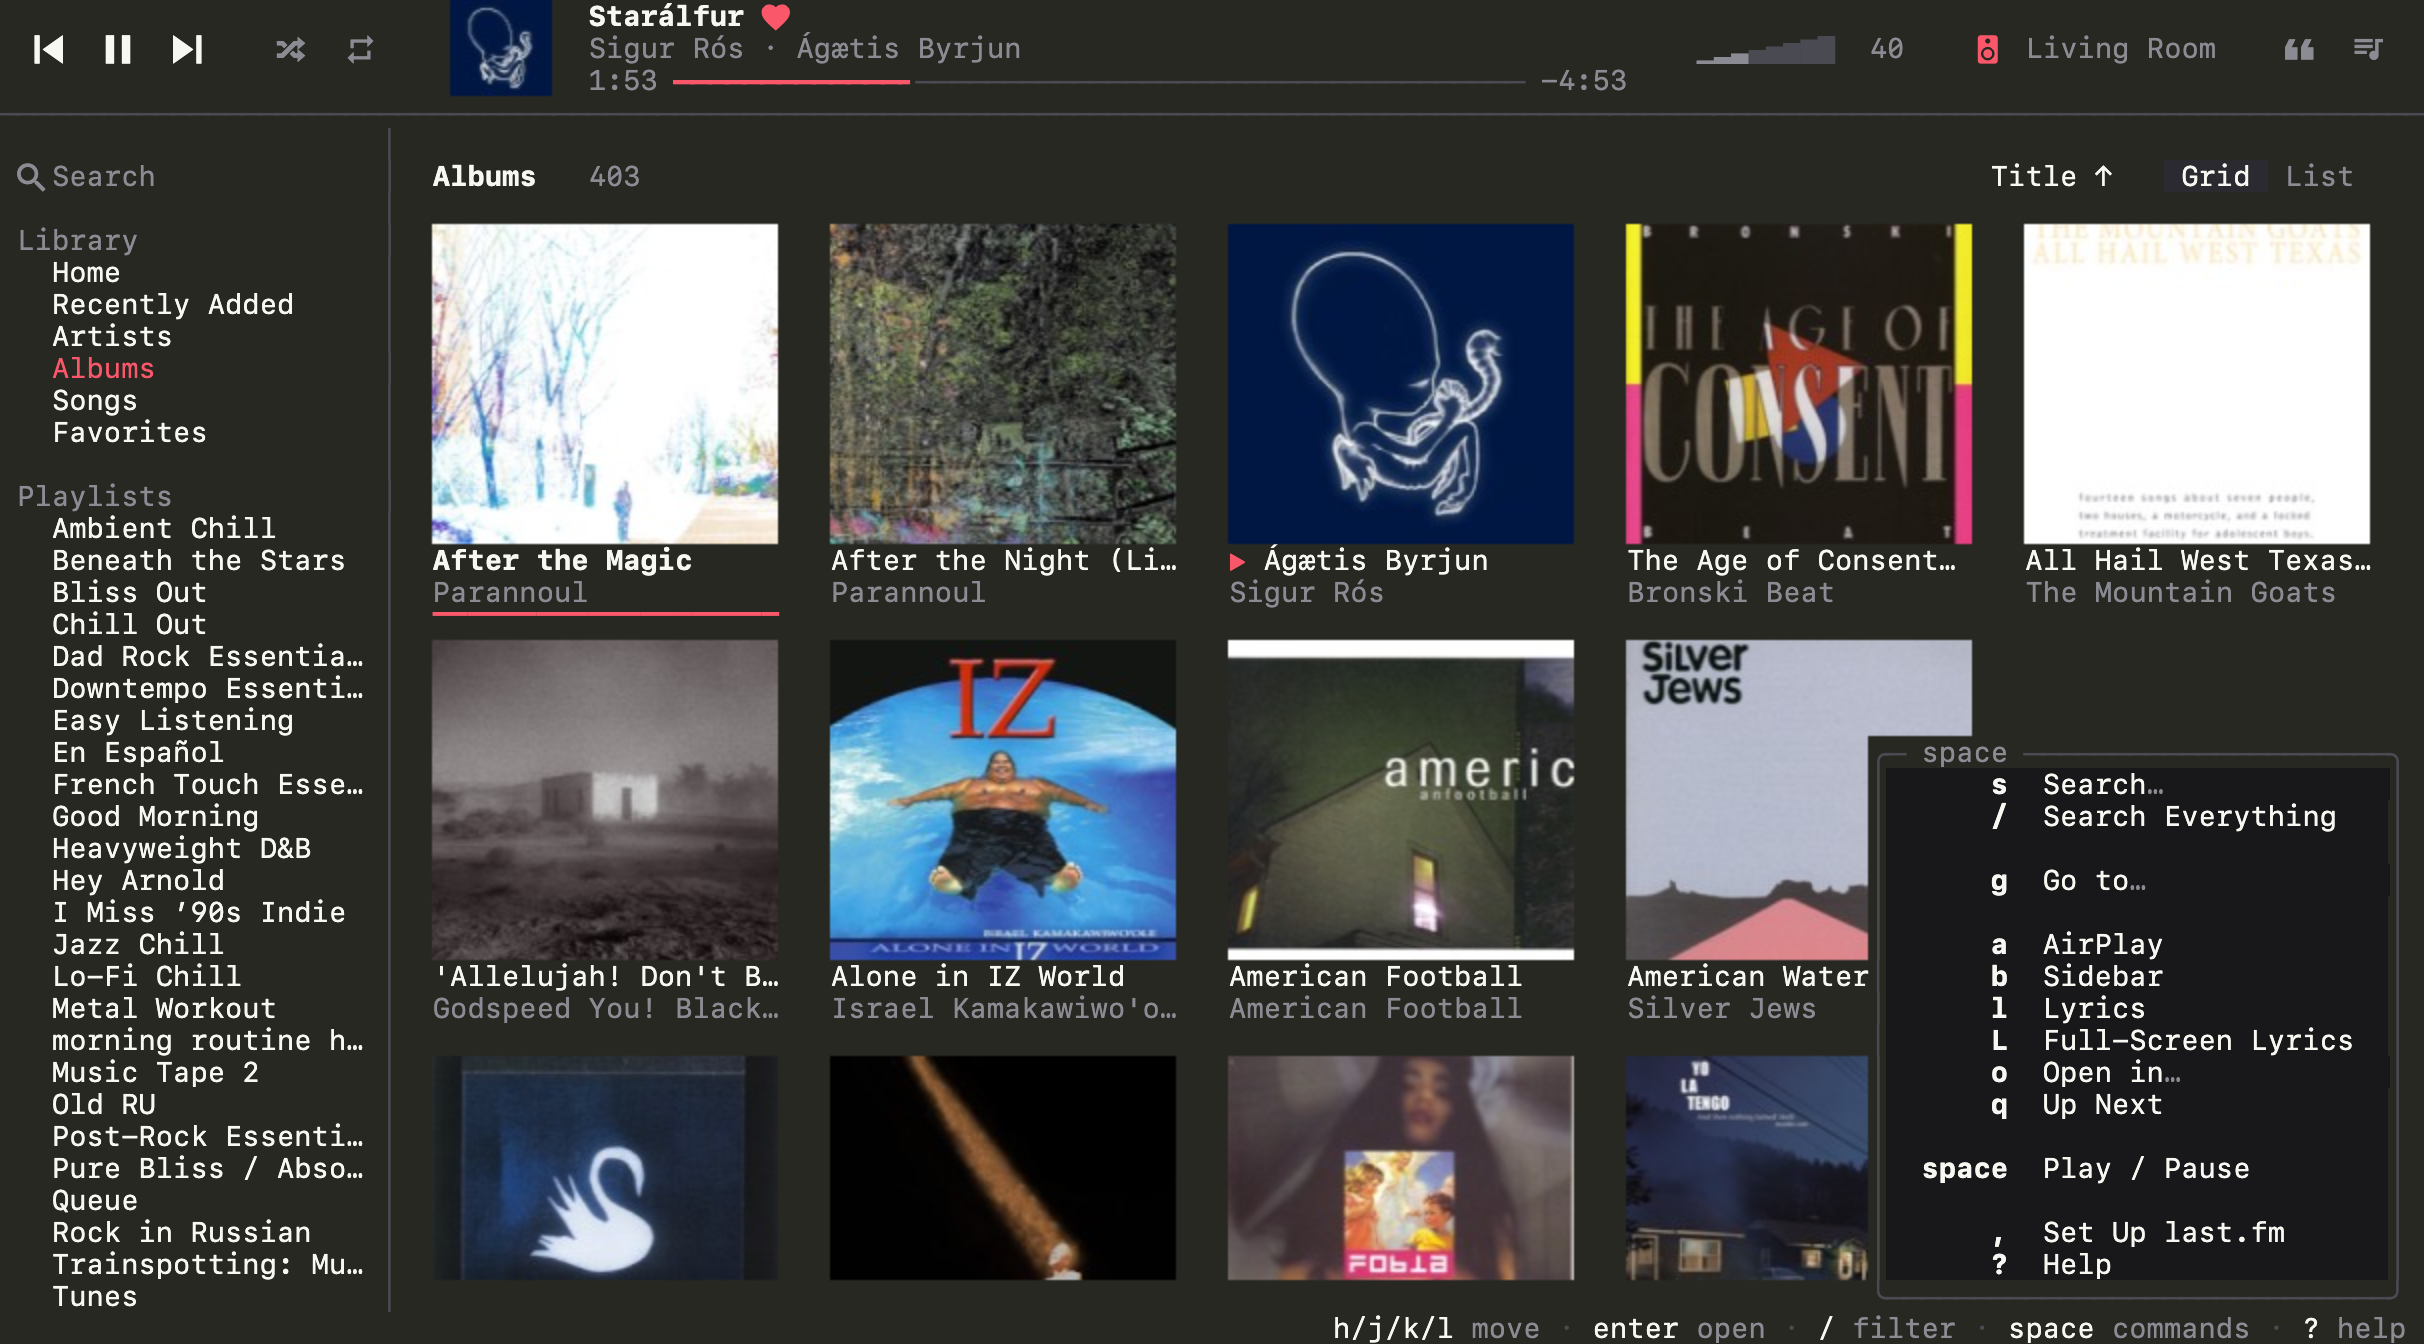
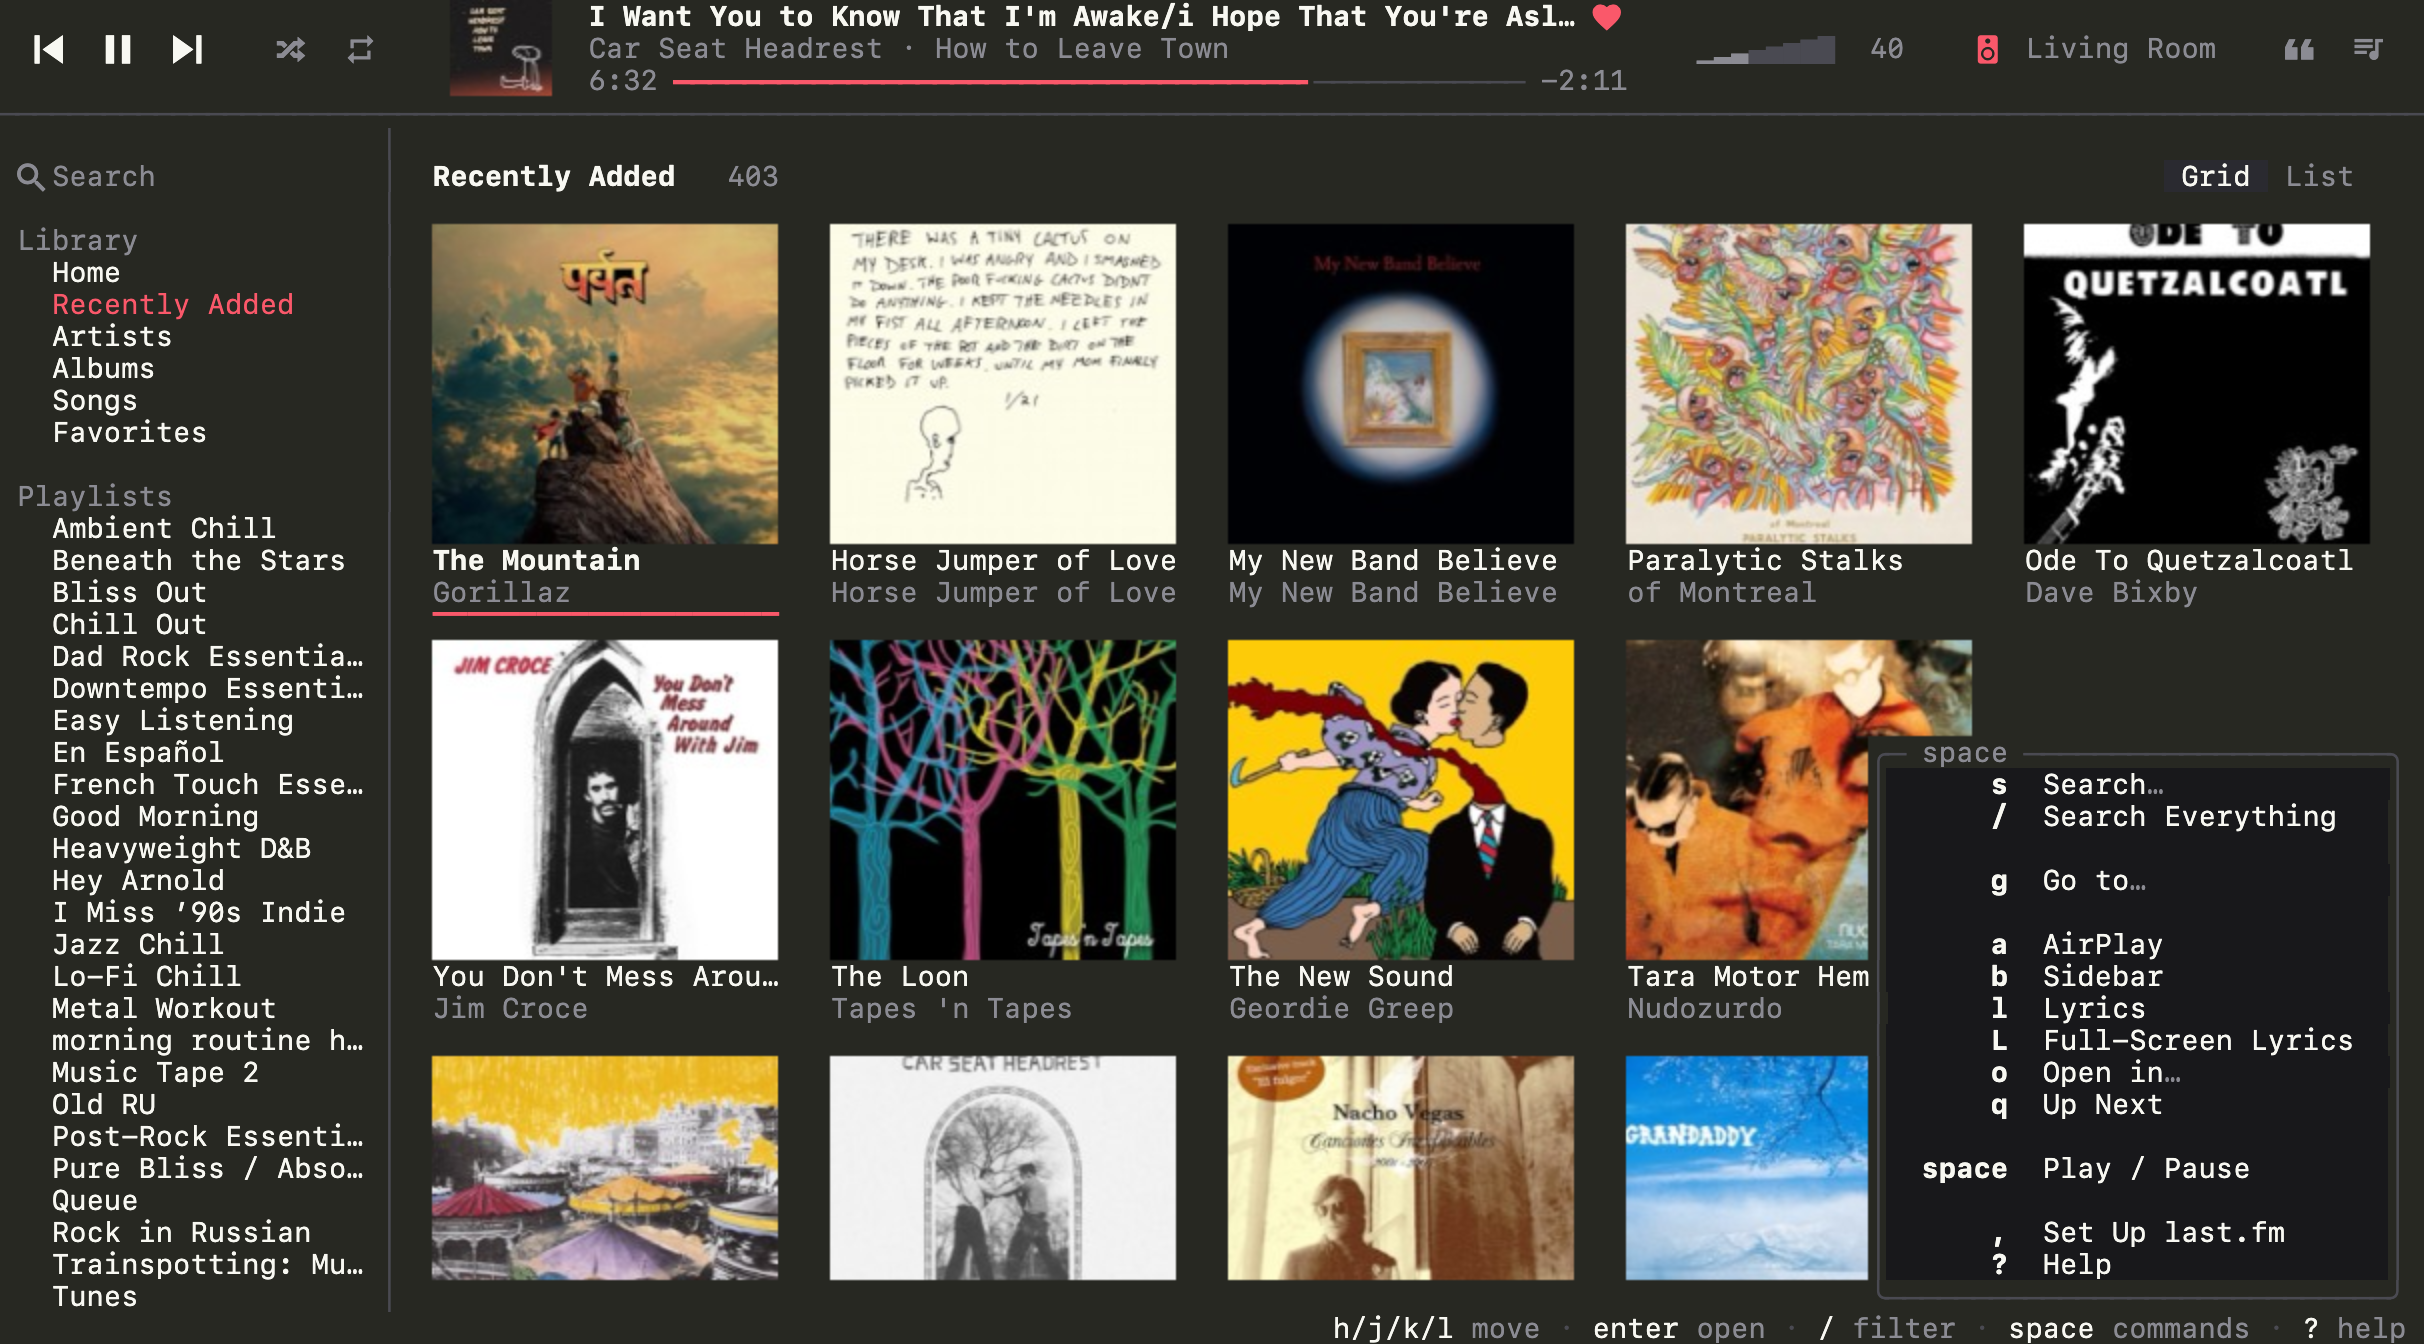
docs: album grid and Recently Added screenshots

diff --git a/README.md b/README.md
@@ -12,7 +12,7 @@ A fast terminal client for Apple Music on macOS.
 [![Go 1.26](https://img.shields.io/badge/Go-1.26-00ADD8?logo=go&logoColor=white)](go.mod)
 [![Homebrew](https://img.shields.io/badge/brew-bogdankim%2Ftap%2Fencore-FBB040?logo=homebrew&logoColor=white)](#homebrew)
 
-<img src="docs/screenshots/home.png" alt="encore showing the Apple Music Home page, with the player bar on top and playlists in the sidebar" width="100%">
+<img src="docs/screenshots/albums.png" alt="encore showing the album grid, with the player bar on top and playlists in the sidebar" width="100%">
 
 </div>
 
@@ -35,7 +35,7 @@ Music.app still plays the audio, handles AirPlay and syncs your library. encore 
 <table>
   <tr>
     <td width="50%"><img src="docs/screenshots/search.png" alt="The search overlay with results grouped into top results, songs and albums"></td>
-    <td width="50%"><img src="docs/screenshots/leader.png" alt="The album grid with the space leader popup open"></td>
+    <td width="50%"><img src="docs/screenshots/leader.png" alt="Recently Added with the space leader popup open"></td>
   </tr>
   <tr>
     <td align="center">Search everything with <code>space /</code></td>
